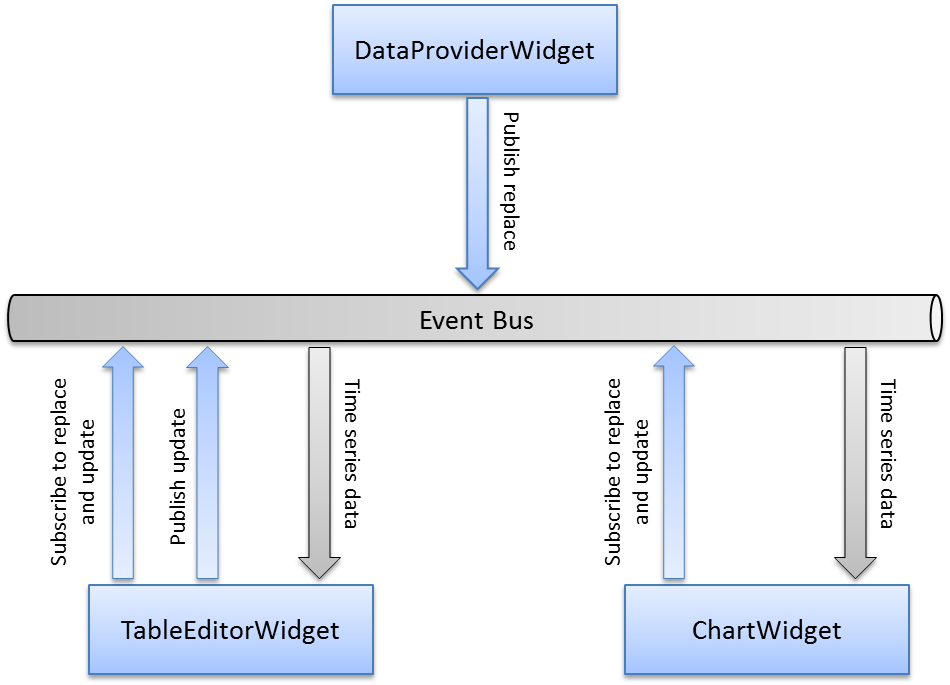
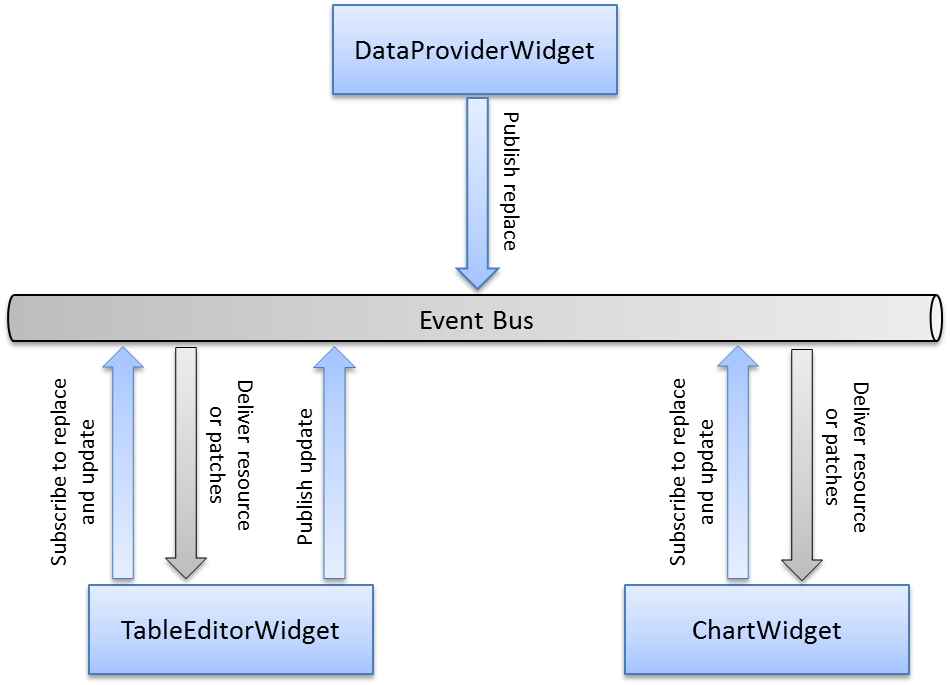
(#4) Updated the documentation after review.

diff --git a/docs/mashup_tutorial.md b/docs/mashup_tutorial.md
@@ -2,9 +2,9 @@
 
 This tutorial shows how widgets communicate between one another by means of the event bus, one of the core concepts of *[LaxarJS](http://laxarjs.org)*.
 Event bus communication ensures that widgets are completely separated from each other.
-This degree of separation enables you to integrate different external libraries into your application without the need to stitch them together.
+This degree of separation helps you to integrate different external libraries into your application without having conflicts between them.
 We demonstrate this concept by integrating two external libraries into different widgets and letting these widgets communicate by a publish/subscribe mechanism.
-The mentiond external libraries are:
+The mentioned external libraries are:
 * a data grid editor: *[Handsontable](http://handsontable.com/)* and
 * a chart library: *[Angular-nvD3](http://krispo.github.io/angular-nvd3)*.
 
@@ -15,7 +15,6 @@ Not strictly necessary, but useful are these additional documents:
 * [Why LaxarJS?](https://github.com/LaxarJS/laxar/blob/master/docs/why_laxar.md)
 * [Widgets and Activities](https://github.com/LaxarJS/laxar/blob/master/docs/manuals/widgets_and_activities.md)
 * [Writing Pages](https://github.com/LaxarJS/laxar/blob/master/docs/manuals/writing_pages.md)
-* [Flow and Places](https://github.com/LaxarJS/laxar/blob/master/docs/manuals/flow_and_places.md)
 * [Events and Publish-Subscribe](https://github.com/LaxarJS/laxar/blob/master/docs/manuals/events.md)
 
 It's a good idea to explore the ShopDemo as well, as it introduces you to the core concepts of LaxarJS:
@@ -32,7 +31,7 @@ The demo makes use of four widgets:
 * the ChartWidget.
 
 Each of these widgets will be introduced below. Note that each of these widgets can be instantiated multiple
-times in [mashup_demo.json](../application/pages/mashup_demo.json) as is the case with the ChartWidget.
+times on each page as is the case with the ChartWidget.
 
 
 ### HeadlineWidget ##
@@ -44,7 +43,9 @@ In our application we use it to complete the layout with the title "MashupDemo" 
 ### DataProviderWidget ##
 
 The DataProviderWidget's task is to provide initial data sets to choose from.
-In our context data sets consist of a set of time series to be edited and visualized by other widgets:
+Here data sets consist of a set of time series to be edited and visualized by other widgets.
+In a real application this data would be supplied by an *activity* that reads times series resources from a REST service.
+We decided to use a widget for demonstration purposes:
 
 ![DataProviderWidget](img/data_provider_widget.png)
 
@@ -63,9 +64,9 @@ Time series are shown vertically, i.e. each column corresponds to a time series.
 The column headers denote the title of the corresponding time series.
 The row headers specify the date which the values are referring to.
 All time series must lie on the same date grid.
-Missing values are interpreted as NULL.
-However the interpretation of NULL values may vary in other widgets.
-A chart widget may choose to set NULL values to 0 or ignore them, depending on the chart type or other options.
+Missing values are interpreted as `null`.
+However the interpretation of `null` values may vary in other widgets.
+A chart widget may choose to set `null` values to 0 or ignore them, depending on the chart type or other options.
 
 When a cell value is changed, a corresponding update is published on the event bus.
 The accompanying data can be used to reconstruct the modified time series resource.
@@ -84,14 +85,14 @@ A stacked line chart looks like this:
 
 It's always the current state of the time series resource that is displayed.
 In order to do this the ChartWidget subscribes to changes to the time series resource.
-For further details on the publish/subscribe mechanism, see [Widget Communication](#widget-communication).
 
 
 ## Widget Communication ##
 
 Each widget is a self-contained component that communicates with other widgets through the event bus.
-The event bus is one of the central concepts of LaxarJS. Widgets are not supposed to transfer data
+The event bus is one of the central concepts of *LaxarJS*. Widgets are not supposed to transfer data
 to each other directly. They are expected to transfer data by certain events via the event bus.
+Events and the publish/subscribe mechanism are explained in detail [here](https://github.com/LaxarJS/laxar/blob/master/docs/manuals/events.md).
 
 In our tutorial there is only one resource that gets transferred: the time series data. The resource name is
 configured separately for each widget instance. Here we use the resource name `timeSeriesData`, see [mashup_demo.json](../application/pages/mashup_demo.json).
@@ -100,15 +101,20 @@ and the instances of the ChartWidget the resource name is configured by the feat
 without saying that the names must match exactly. Otherwise the subscribing widgets would subscribe to
 a resource different from the publishing widget.
 
-The publish/subscribe mechanism is depicted in the following diagram:
+The publish/subscribe mechanism used in our tutorial is depicted in the following diagram:
 
 ![mashup demo](img/mashup_demo_communication.png)
 
+The blue arrows depict the operations performed on the event bus by our widgets.
+The gray arrows depict the callback operations performed by the event bus when the resource is replaced or updated.
 
 ### Resource Replacement: the DataProviderWidget ###
 
-We decided to let the DataProviderWidget act as the master widget here, i.e. only the DataProviderWidget is allowed to replace the resource.
-Other widgets in this setup are only allowed to consume and/or update the resource.
+We decided to let the DataProviderWidget act as the *master widget* here, i.e. only the DataProviderWidget is allowed to replace the resource.
+Other widgets in this setup are only allowed to consume and/or update the resource and thus act as *slave widgets*.
+The master/slave pattern is part of the *[LaxarJS Patterns](https://github.com/LaxarJS/laxar_patterns)* library.
+In this tutorial we use patterns from the resources family. Further details on patterns can be found [here](https://github.com/LaxarJS/laxar_patterns/blob/master/docs/index.md).
+
 When the user selects an example from the DataProviderWidget, it publishes the corresponding time series data as a resource under the name `timeSeriesData`.
 We do this by sending a so-called *didReplace* event.
 See function `publishResource()` in [data_provider_widget.js](../includes/widgets/mashup_demo/data_provider_widget/data_provider_widget.js) with the following code snippet:
@@ -125,7 +131,7 @@ $scope.eventBus.publish( 'didReplace.' + resourceName, {
 A didReplace event notifies interested parties of the fact that a resource has been replaced.
 The name of the resource is also added as part of the *event name*.
 The event bus manages *topic-based event subscriptions*.
-Events are formed by a sequence of one or more *topics* separated by a `.` .
+Events are formed by a sequence of one or more *topics* separated by a '.'.
 Thus our event name is `didReplace.timeSeriesData`.
 Further examples of valid event names can be found [here](https://github.com/LaxarJS/laxar/blob/master/docs/manuals/events.md#event-names).
 
@@ -136,7 +142,7 @@ Thus we provide an object with the following attributes:
 * `data`: the new representation of the resource.
 
 The event bus delivers this resource to all widgets that have subscribed to replace events: the TableEditorWidget and the three ChartWidgets.
-They act as slave widgets in our setup. You may have guessed that the corresponding subscription looks like this:
+You may have guessed that the corresponding subscription looks like this:
 
 ```javascript
 $scope.eventBus.subscribe( 'didReplace.' + resourceName, function( event ) {
@@ -146,17 +152,17 @@ $scope.eventBus.subscribe( 'didReplace.' + resourceName, function( event ) {
 
 We set the attribute `timeSeries` of `$scope.resources` to the transmitted data.
 Note that we do not have to create a deep copy of the data here as the event bus will do that for us.
-However there is a simpler way to do it:
+The *LaxarJS Patterns* library provides a simpler way to do it:
 
 ```javascript
 patterns.resources.handlerFor( $scope ).registerResourceFromFeature( 'timeSeries' );
 ```
 
-With this one-liner LaxarJS looks up the attribute `resource` of feature `timeSeries` and lets the widget subscribe to the corresponding didReplace events.
+With this one-liner the *LaxarJS Patterns* library looks up the attribute `resource` of feature `timeSeries` and lets the widget subscribe to the corresponding didReplace events.
 When such an event is received the data is set as attribute `timeSeries` of `$scope.resources`.
-With the above snippet the widget also subscribes to didUpdate events, evaluates the patches attached to them and integrates them into the existing resource.
+With the above snippet the widget also subscribes to didUpdate events which are explained [below](#resource-update-the-tableeditorwidget).
 There's more: you may immediately call a function once the replaced or updated resource is received.
-The subscription in TableEditorWidget is initialized as follows:
+The subscription in the TableEditorWidget is initialized as follows:
 
 ```javascript
 patterns.resources.handlerFor( $scope ).registerResourceFromFeature( 'timeSeries', {
@@ -169,12 +175,12 @@ A similar piece of code can be found in ChartWidget:
 
 ```javascript
 patterns.resources.handlerFor( $scope ).registerResourceFromFeature( 'timeSeries', {
-   onReplace: [ convertToChartModel, setOptionsFromResource ],
-   onUpdate: [ applyPatches ]
+   onReplace: [ replaceChartModel ],
+   onUpdate: [ updateChartModel ]
 } );
 ```
 
-We call `applyPatches()` when the existing resource is updated and `convertToChartModel()` and `setOptionsFromResource()` when the entire resource has been replaced.
+We call `updateChartModel()` when the existing resource is updated and `replaceChartModel()` when the entire resource has been replaced.
 The idea behind it is simple:
 we do not want to redraw the entire chart so we can see a nice transition from the old to the new value.
 This is possible if the transmitted patch contains value changes only.
@@ -208,6 +214,7 @@ Let's take a look at the transmitted resource before getting to the update mecha
 
 The representation of the resource neither equals the internal representation of data in *Handsontable* nor the representation of data in *Angular-nvD3*.
 What we do instead is to convert the data back and forth between the representation of the resource and the internal representations.
+We do this to have a representation that is not strongly connected to one of the libraries but rather fits to a potentially larger number of widgets.
 
 This is done in function `updateTableModel()` of [table_editor_widget.js](../includes/widgets/mashup_demo/table_editor_widget/table_editor_widget.js)
 and function `convertToChartModel()` of [chart_widget.js](../includes/widgets/mashup_demo/chart_widget/chart_widget.js).
@@ -236,7 +243,7 @@ var patch = patterns.json.createPatch( $scope.resources.timeSeries, modifiedReso
 
 As mentioned before we need to convert the data back and forth between the representation of the resource and the internal representation of *Handsontable*.
 The function `getTimeSeriesFromTableModel()` converts the internal representation of the editable grid to our resource representation.
-What we do then is to compute the difference between the old resource representation and the modified one.
+What we do then is to compute the difference between the old resource representation and the modified one as a *JSON Patch* conforming to [RFC 6902](https://tools.ietf.org/html/rfc6902).
 The resulting patch might look like this:
 
 ```javascript
@@ -250,13 +257,13 @@ The resulting patch might look like this:
 ```
 
 The ChartWidget subscribes to didReplace and didUpdate events.
-The good news is we can actually treat them alike with:
+The good news is we can actually treat them alike with the *LaxarJS Patterns* library:
 
 ```javascript
 patterns.resources.handlerFor( $scope ).registerResourceFromFeature( 'timeSeries' );
 ```
 
-If the is updated the above snippet ensures that the accompanying patches are evaluated and integrated into the existing resource, which is kept in attribute `timeSeries` of `$scope.resources`.
+If the resource is updated the above snippet ensures that the accompanying patches are evaluated and integrated into the ChartWidget's local representation, which is kept in attribute `timeSeries` of `$scope.resources`.
 We could then convert the resource with function `convertToChartModel()` and update the entire chart.
 For reasons of a fancier visual representation we decided to handle the update case in a different way if the patch contains value changes only:
 we modify the internal representation of the data and do not update the chart entirely.
@@ -265,15 +272,15 @@ This approach results in a nice transition from the old values to the new values
 
 ## Including External Libraries ##
 
-In a LaxarJS application we manage external libraries with *[RequireJS](http://requirejs.org/)*, *[npm](http://www.npmjs.org)* and *[Bower](http://bower.io/)*.
-In the best case we fetch the desired library with npm or bower and add a simple path to the RequireJS configuration file.
+In a *LaxarJS* application we manage external libraries with *[Bower](http://bower.io/)* and *[RequireJS](http://requirejs.org/)*.
+In the best case we fetch the desired library with Bower and add a simple path to the RequireJS configuration file.
 But it may also happen that the library does not provide a package and is not prepared to be used with RequireJS.
 
 
 ### TableEditorWidget with Handsontable ###
 
-Because we do not want to implement a complete excel-like table editor form the scratch, we use the library *Handsontable*.
-To download the library and its dependencies we use bower (see [bower.json](../bower.json)).
+Because we do not want to implement a complete spreadsheet-like table editor from scratch, we use the library *Handsontable*.
+To download the library and its dependencies we use Bower (see [bower.json](../bower.json)).
 
 In [require_config.js](../require_config.js) we have to make sure that its direct dependencies as well as its transitive dependencies are fulfilled:
 *Handsontable* depends on *jQuery* and *Numeral.js*.
@@ -310,7 +317,7 @@ paths: {
 
 CSS files are loaded by *[require-css](https://github.com/guybedford/require-css)* available through Bower.
 We have to make sure, that it's used if we prefix a required module by `css!`.
-We do this by a *[map config](http://requirejs.org/docs/api.html#config-map)*:
+We do this using a *[map config](http://requirejs.org/docs/api.html#config-map)*:
 
 ```javascript
 map: {
@@ -336,16 +343,16 @@ define( [
 ```
 
 Note that we did not inject *Numeral.js* as we don't use it directly.
-When the dependency `handsontable` is mentioned, requireJS will deduce that *jQuery* and *Numeral.js* need to be loaded before *Handsontable*.
-The path mappings provide the exact paths to the Javascript files 'numeral/numeral.js' and 'handsontable/dist/jquery.handsontable.js'.
+When the dependency `handsontable` is requested, *RequireJS* will deduce that *jQuery* and *Numeral.js* need to be loaded before *Handsontable*.
+The path mappings provide the exact paths to the Javascript files `numeral/numeral.js` and `handsontable/dist/jquery.handsontable.js`.
 A similar approach is used for the CSS file: when *RequireJS* encounters the `css!` prefix, the require-css plugin is used.
-The path mapping provides the exact path: 'handsontable/dist/jquery.handsontable.css'.
+The path mapping provides the exact path: `handsontable/dist/jquery.handsontable.css`.
 
 
 ### ChartWidget with Angular-nvD3 ###
 
 To visualize the chart we use the library *Angular-nvD3*.
-To download the library and its dependencies we use bower.
+To download the library and its dependencies we use Bower.
 When downloading there is a dependency conflict between Angular-nvD3 and NVD3 and their common dependency D3.
 We can resolve it manually, see 'resolutions' in [bower.json](../bower.json).
 
@@ -409,7 +416,18 @@ define( [
 } );
 ```
 
-When the dependency `angular-nvd3` is mentioned, requireJS will be able to build the dependency tree from the shim config.
-A valid order of loading the above dependencies would be ('d3', 'nvd3', 'angular-nvd3').
-The defined path mappings provide the exact paths to the corresponding Javascript files: ('d3/d3.js','nvd3/nv.d3.js','angular-nvd3/dist/angular-nvd3.js').
-Similar to the above case, require-css is used to load the CSS file 'handsontable/dist/jquery.handsontable.css'.
+When the dependency `angular-nvd3` is requested, *RequireJS* will be able to build the dependency tree from the shim config.
+A valid order of loading the above dependencies would be (`d3`, `nvd3`, `angular-nvd3`).
+The defined path mappings provide the exact paths to the corresponding Javascript files: (`d3/d3.js`, `nvd3/nv.d3.js`, `angular-nvd3/dist/angular-nvd3.js`).
+Similar to the above case, require-css is used to load the CSS file `handsontable/dist/jquery.handsontable.css`.
+
+## Summary ##
+
+In this tutorial we have shown how widgets communicate via the event bus.
+Communication is performed via a publish/subscribe mechanism.
+This way widgets are completely separated from each other.
+Although we used only a couple of widgets in this tutorial, this approach can be used for a large number of widgets provided that the payload is not too large.
+
+Please feel free to check out the live demo at GitHub: [MashupDemo](http://laxarjs.github.io/mashup_demo/#/mashupDemo).
+
+Go ahead and develop your own application!
